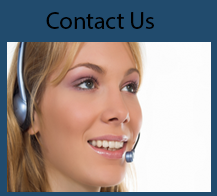
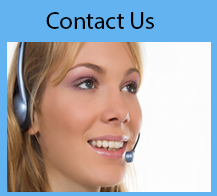
group does not like the colour so change again..

Changed region(s): [[0.0, 0.0, 1.0, 1.0]]

diff --git a/CCF2/CCF2/HomePage.xaml b/CCF2/CCF2/HomePage.xaml
@@ -59,7 +59,7 @@
                         <DropShadowEffect/>
                     </s:SurfaceButton.Effect>
                 </s:SurfaceButton>
-                <s:SurfaceButton HorizontalAlignment="Right" Height="260" Margin="0,337,0,0" VerticalAlignment="Top" Width="330" Click="ContactUs_Click" Background="#FF214B6C">
+                <s:SurfaceButton HorizontalAlignment="Right" Height="260" Margin="0,337,0,0" VerticalAlignment="Top" Width="330" Click="ContactUs_Click" Background="#FF63B3F1">
                     <Image  Source="Resources/images/Menu/ContactUs1.PNG" HorizontalAlignment="Left" Height="Auto" VerticalAlignment="Center" Width="Auto" Stretch="Fill"/>
                     <s:SurfaceButton.Effect>
                         <DropShadowEffect/>
